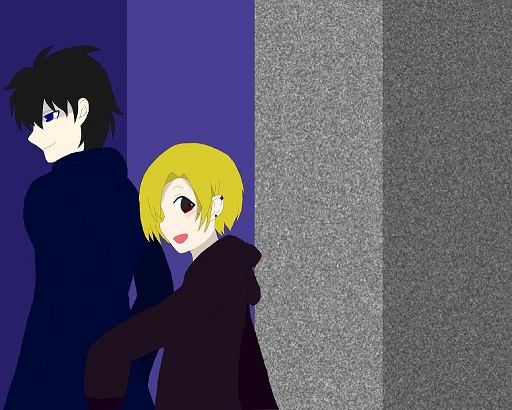
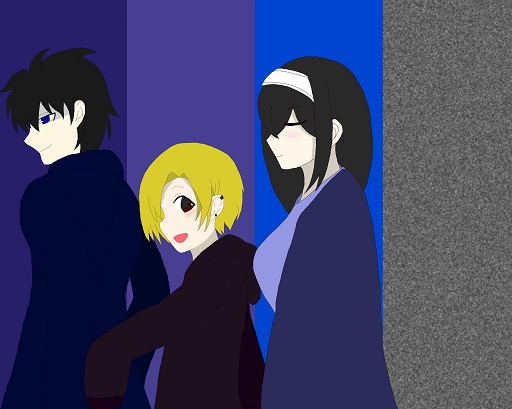
Add files via upload

diff --git a/kadai3.html b/kadai3.html
@@ -1,0 +1,33 @@
+<!--課題用HTML-->
+<!doctype html>
+<html>
+    <head>
+        <meta charset="utf-8">
+        <title>課題１</title>
+        <link rel="stylesheet" type="text/css" href="css/kadai3.css">
+    </head>
+    <body>
+        <h1>久留米工業大学</h1>
+
+        <p>
+        <img src="images/Gear and Network.jpg" alt="Gear and Network">
+        </p>
+        
+        <h2>概要</h2>
+        
+        <h3>建学の精神</h3>
+        
+        <p>「人間味豊かな産業人の育成」を建学の精神としています。</p>
+        
+        <h3>規模</h3>
+        
+        <p>およそ1000人の学生が在籍しています。</p>
+        
+        <h2>リンク</h2>
+        
+        <p>
+            久留米工業大学HPは<a href="http://www.kurume-it.ac.jp/">こちら</a>
+        </p>
+
+    </body>
+</html>

diff --git a/index.html b/index.html
@@ -8,7 +8,7 @@
         <h1>情報ネットワーク工学科　園田悠介　のページへようこそ</h1>
 
         <p>
-        <img src="images/IllustrationA.jpg" alt="七夜志貴＆白坂小梅＆？＆？">
+        <img src="images/IllustrationA.jpg" alt="七夜志貴＆白坂小梅＆鷺沢文香＆？">
         </p>
         
         <h2>自己紹介</h2>
@@ -29,6 +29,7 @@
         <ol>
             <li><a href="https://e194227sy.github.io/kadai1.html">レポート課題1</a></li>
             <li><a href="https://e194227sy.github.io/index.html">レポート課題2</a>(このページ)</li>
+            <li><a href="https://e194227sy.github.io/kadai3.html">レポート課題3</a></li>
         </ol>
         
         <hr>

diff --git a/css/kadai3.css b/css/kadai3.css
@@ -1,0 +1,29 @@
+h1{
+    color: blue;
+    font-family: "";
+    text-align: center;
+    background-color: silver;
+}
+
+h2{
+    color: white;
+    background-color: navy;
+    text-align: center;
+}
+
+h3{
+    color: red;
+    font-weight: bold;
+    text-align: center;
+}
+
+p{
+    color: white;
+    font-weight: bold;
+    text-align: center;
+}
+
+body{
+    background-image: url("../images/Metal%20Blue.jpg");
+    background-position: center center;
+}

diff --git a/css/enshu06.css b/css/enshu06.css
@@ -1,0 +1,16 @@
+h1{
+    color: darkorange;
+    font-family: "Impact";
+    text-align: center;
+    background-color: aquamarine
+}
+
+p{
+    font-size: 25px;
+    font-weight: bold
+}
+
+body{
+    background-image: url("../images/Japan%20Blue.jpg");
+    background-position: center center;
+}

diff --git a/css/enshu03.css b/css/enshu03.css
@@ -1,0 +1,9 @@
+p{
+    color: red;
+    font-weight: boldp;
+}
+h1 {
+color: blue;
+font-size:35px;
+font-weight : bold;
+}
